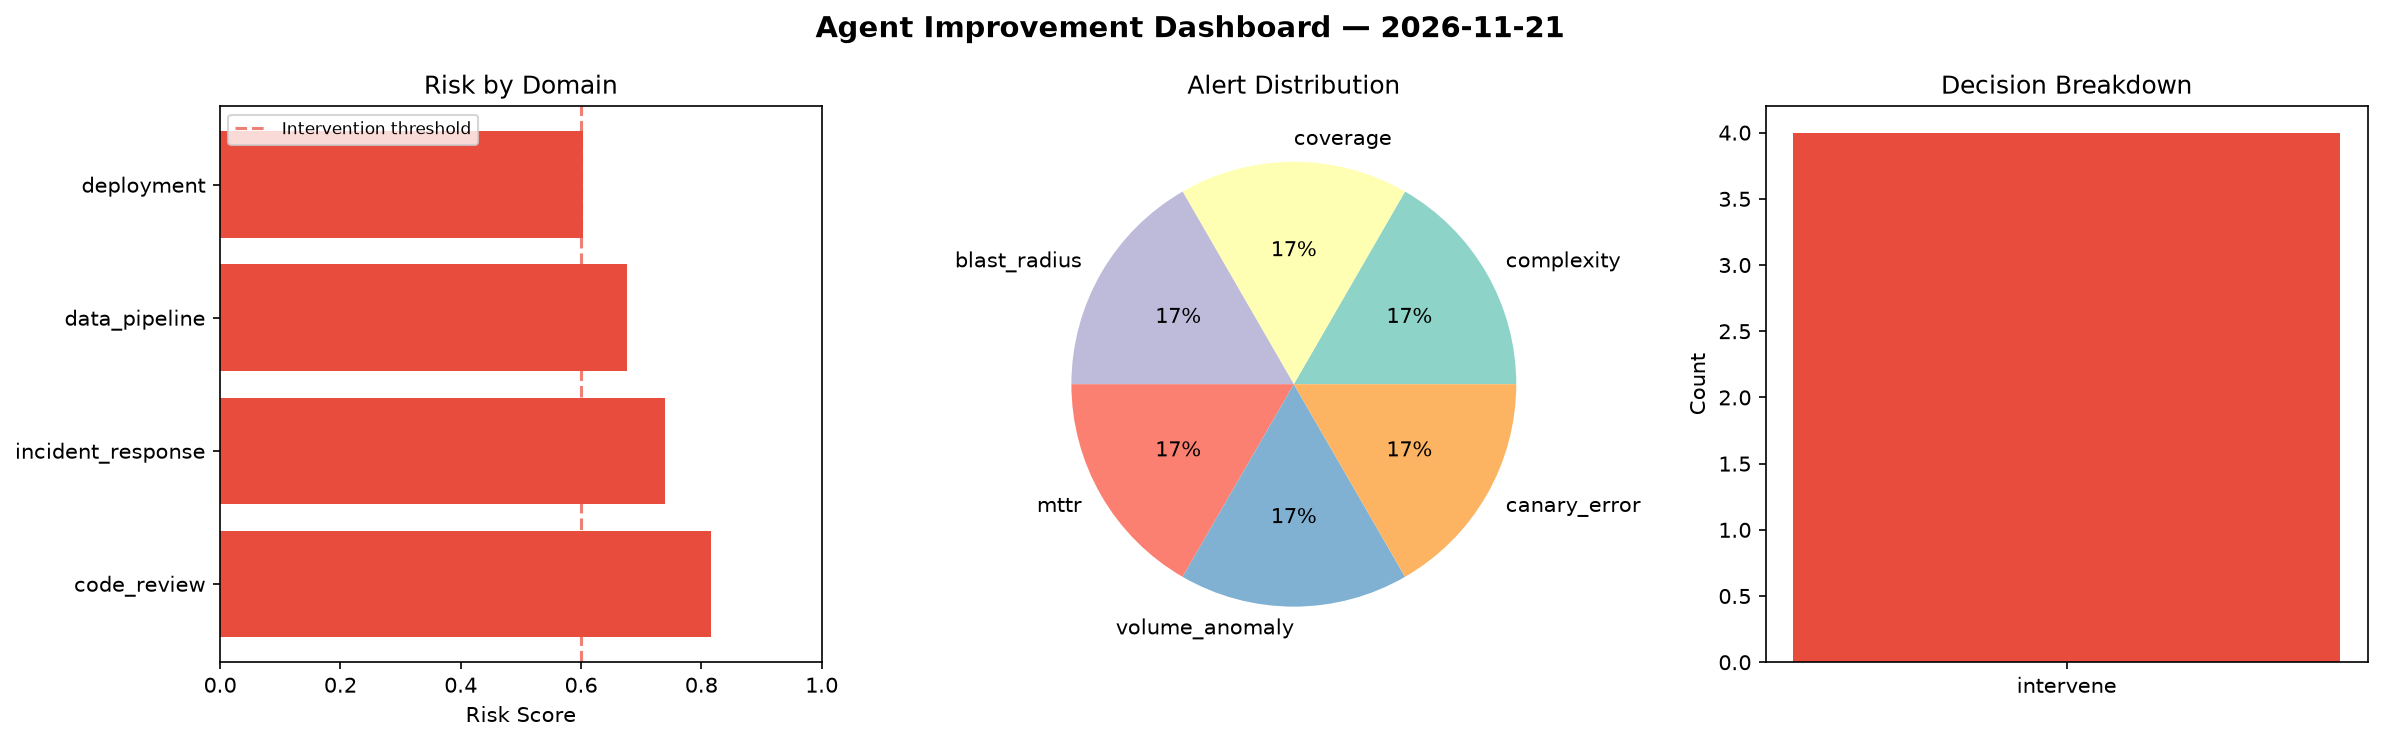
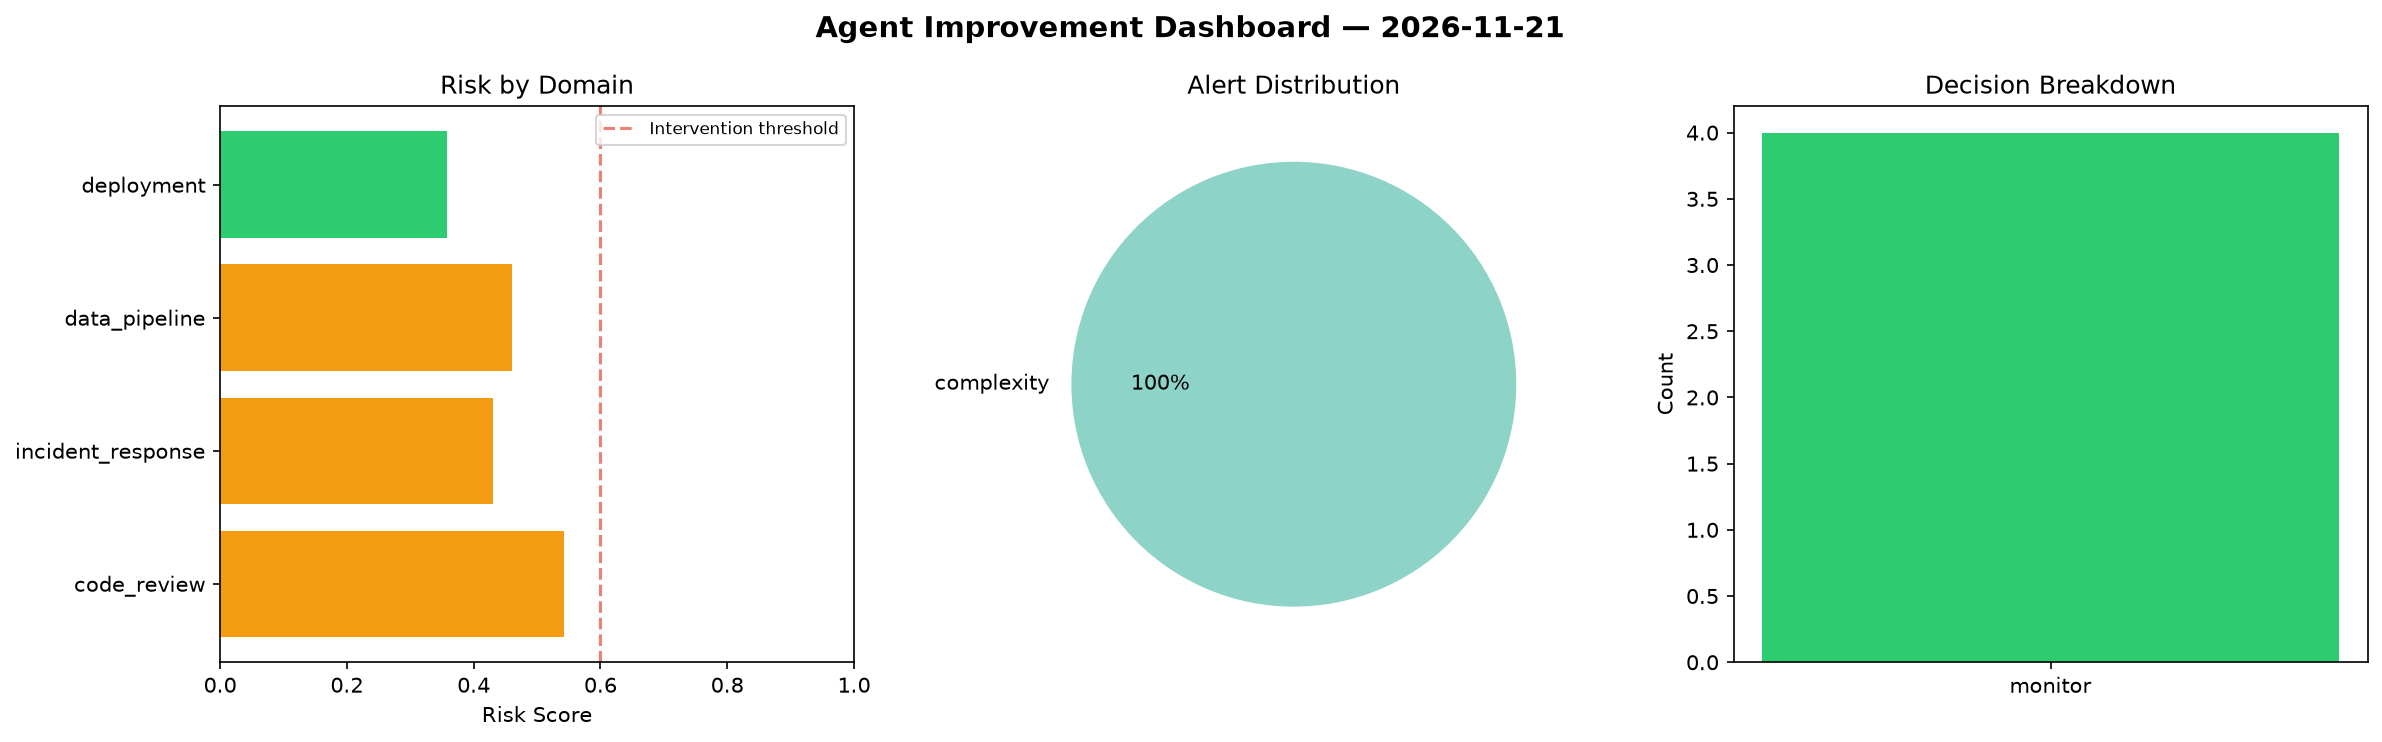
agent-improvement: daily cycle 2026-11-21T16:07

diff --git a/logs/2026-11-21.md b/logs/2026-11-21.md
@@ -1,6 +1,6 @@
 # Agent Improvement Report — 2026-11-21
 
-**Cycle ID:** `1bce5ca4` | **Avg Risk:** 0.7083 | **Interventions:** 4/4
+**Cycle ID:** `37885b2b` | **Avg Risk:** 0.4481 | **Interventions:** 0/4
 
 ![Dashboard](2026-11-21_dashboard.png)
 
@@ -10,18 +10,18 @@
 
 | Domain | Risk Score | Decision | Alerts |
 |--------|-----------|----------|--------|
-| code_review | 0.8159 | intervene | complexity, coverage |
-| incident_response | 0.7387 | intervene | blast_radius, mttr |
-| data_pipeline | 0.6757 | intervene | volume_anomaly |
-| deployment | 0.6029 | intervene | canary_error |
+| code_review | 0.5432 | monitor | complexity |
+| incident_response | 0.4302 | monitor | none |
+| data_pipeline | 0.4605 | monitor | none |
+| deployment | 0.3586 | monitor | none |
 
 ## Delta vs Yesterday
 
 | Domain | Today | Yesterday | Change |
 |--------|-------|-----------|--------|
-| code_review | 0.8159 | 0.6305 | 📈 29.4% |
-| incident_response | 0.7387 | 0.5276 | 📈 40.0% |
-| data_pipeline | 0.6757 | 0.5507 | 📈 22.7% |
-| deployment | 0.6029 | 0.3542 | 📈 70.2% |
+| code_review | 0.5432 | 0.6305 | 📉 -13.8% |
+| incident_response | 0.4302 | 0.5276 | 📉 -18.5% |
+| data_pipeline | 0.4605 | 0.5507 | 📉 -16.4% |
+| deployment | 0.3586 | 0.3542 | 📈 1.2% |
 
 **Refinement:** `{'adjustment': 'maintain', 'trend': 'improving', 'window': 4}`
